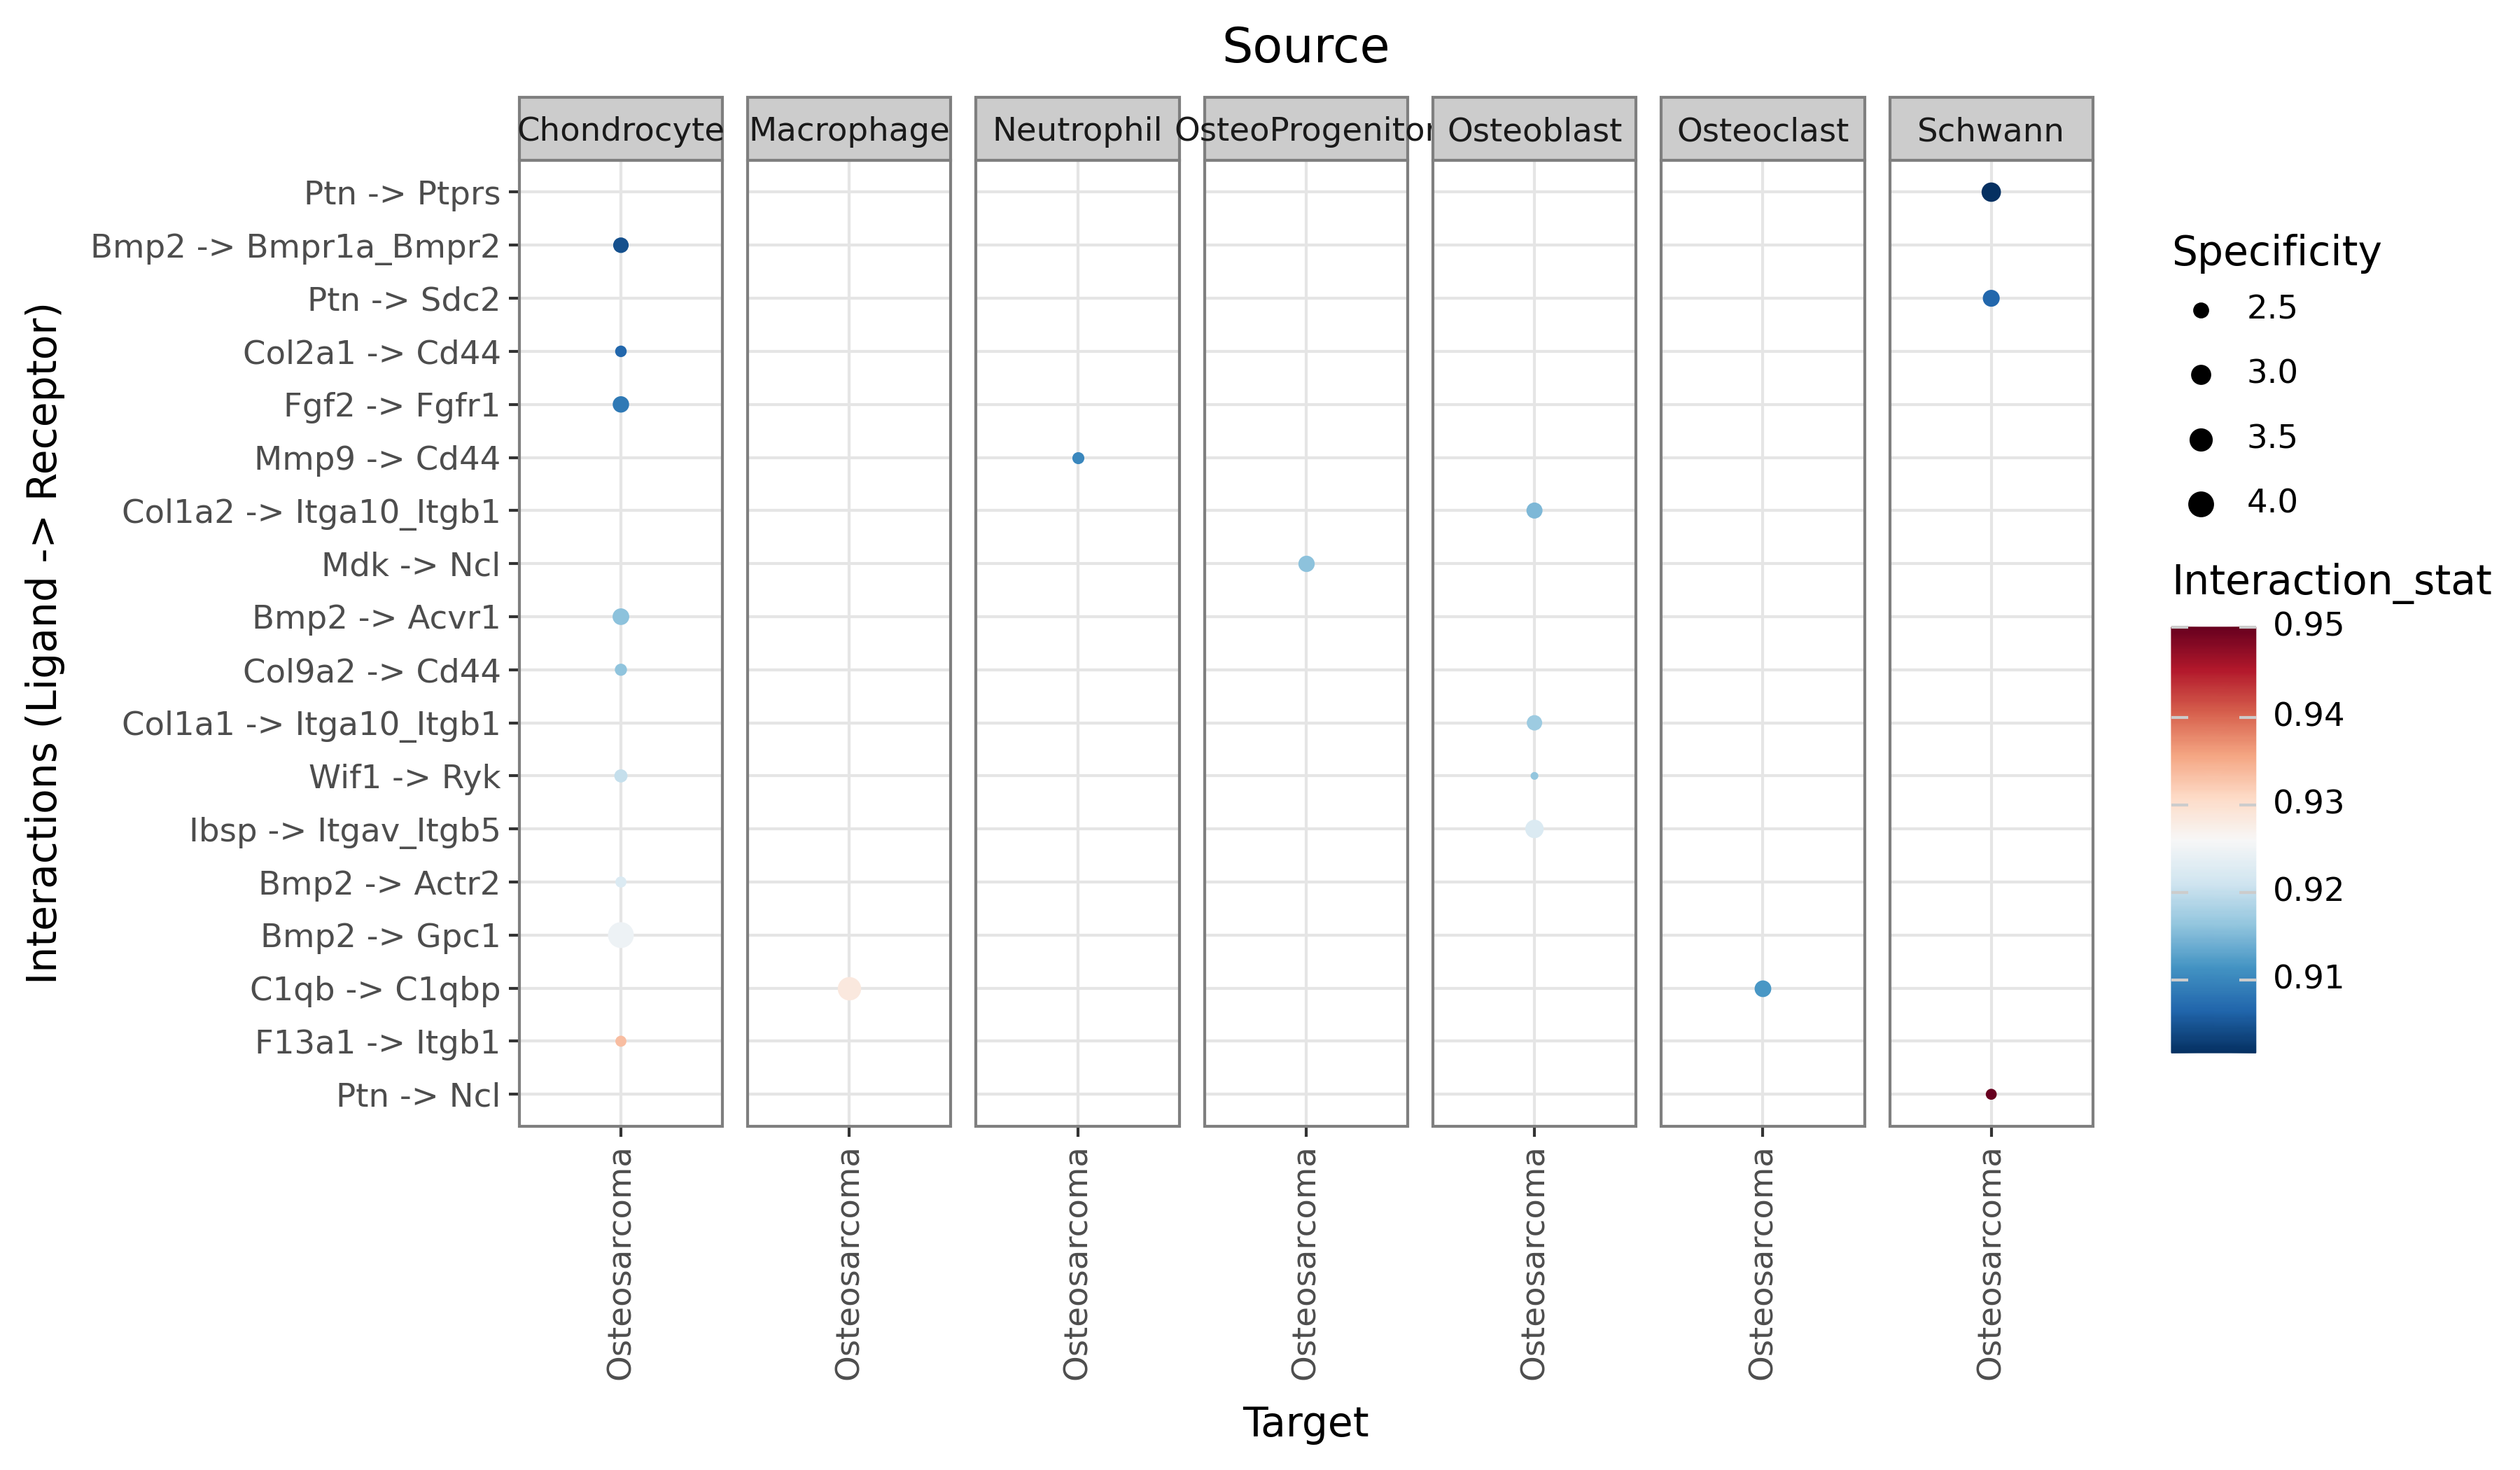
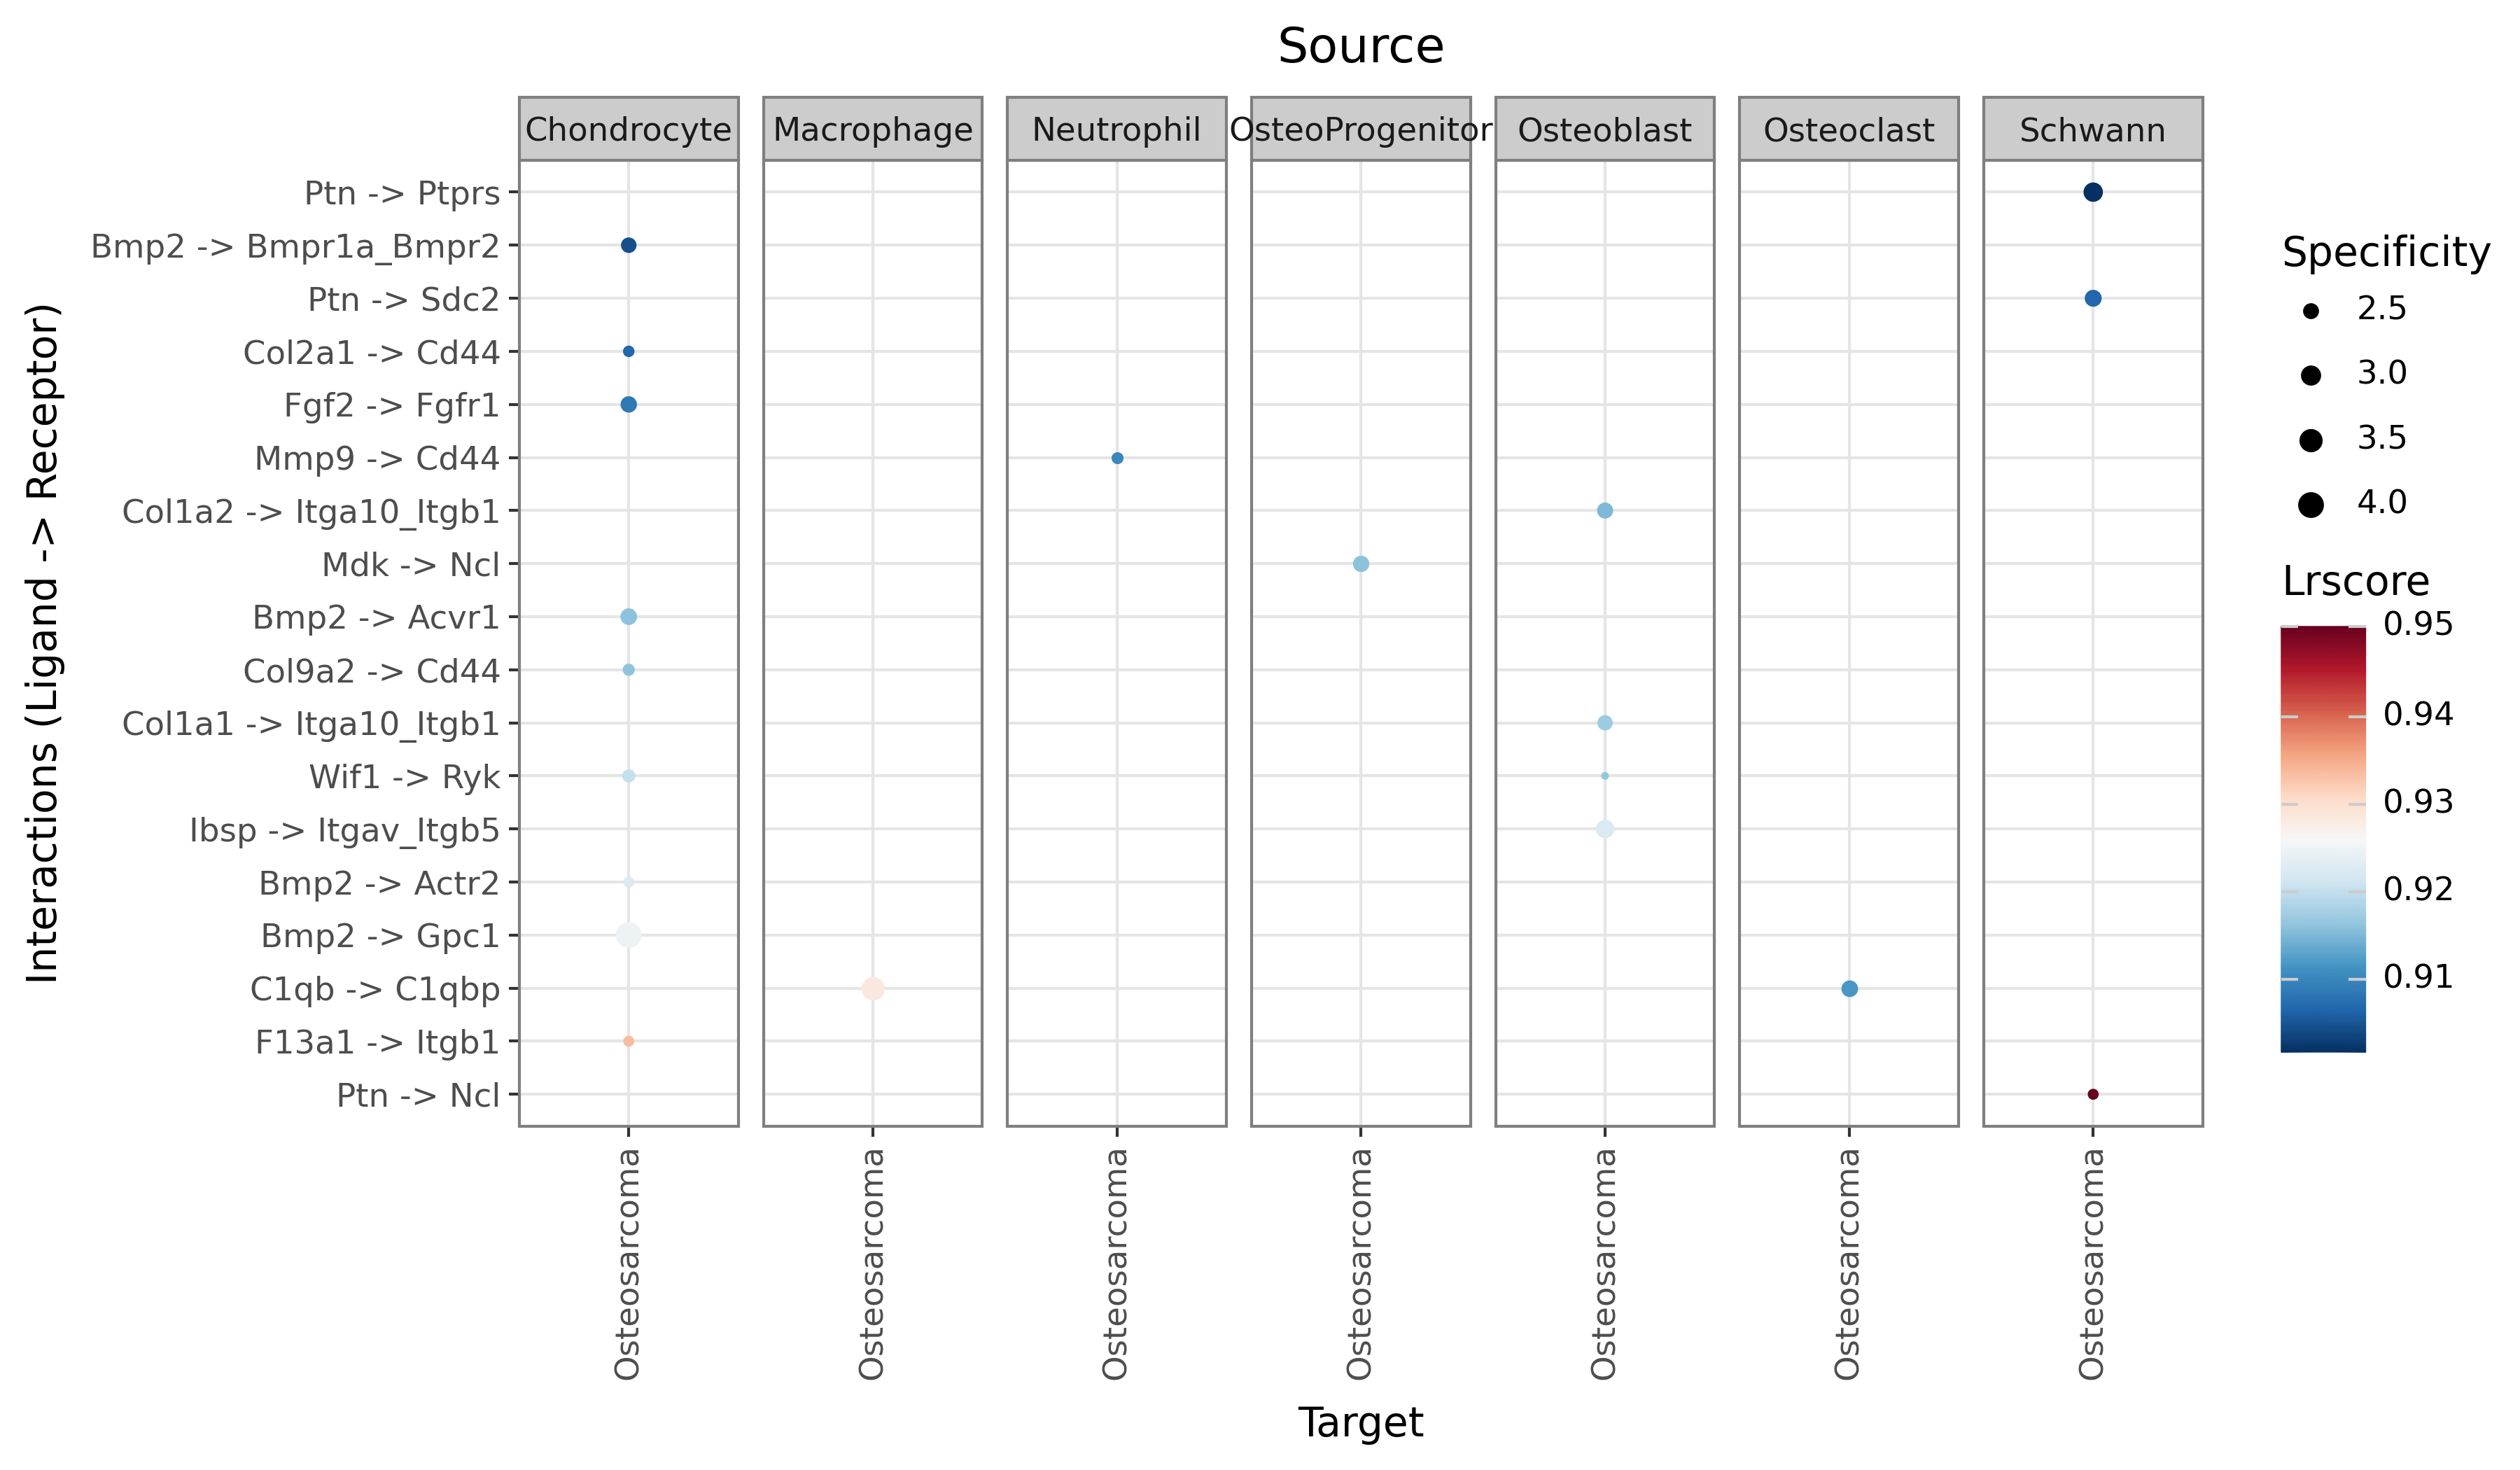
update lrscore name in the liana plot\

diff --git a/src/compareLianaSpecific.py b/src/compareLianaSpecific.py
@@ -106,10 +106,10 @@ def main():
     # -------------------------
     # PREP
     # -------------------------
-    s1["interaction_stat"] = s1["lrscore"]
+    s1["lrscore"] = s1["lrscore"]
     s1["specificity"] = s1["specificity_rank"]
 
-    s1 = s1.sort_values("interaction_stat", ascending=False)
+    s1 = s1.sort_values("lrscore", ascending=False)
 
     top_n = min(20, len(s1))
 
@@ -118,10 +118,10 @@ def main():
     # -------------------------
     plot = li.pl.dotplot(
         liana_res=s1,
-        colour="interaction_stat",
+        colour="lrscore",
         size="specificity",
         inverse_size=True,
-        orderby="interaction_stat",
+        orderby="lrscore",
         orderby_ascending=False,
         orderby_absolute=True,
         top_n=top_n,
@@ -146,7 +146,6 @@ def main():
     plot.save(out_file, dpi=300, verbose=False)
 
     print("Saved:", out_file)
-    print("Saved:", csv_file)
     print("Rows:", len(s1))
 
 

diff --git a/README.md b/README.md
@@ -834,7 +834,7 @@ After identifying likely ligand–receptor interactions, we assess whether each 
 
 ##### Interesting Ligand Receptor in Osteosarcoma 
 
-![](figures/lianaIntersection_receptor_axt_Reg_liana.csv_dotplot.png?v=1)
+![](figures/lianaIntersection_receptor_axt_Reg_liana.csv_dotplot.png?v=2)
 
 
 Where the table fields are summerised as below: